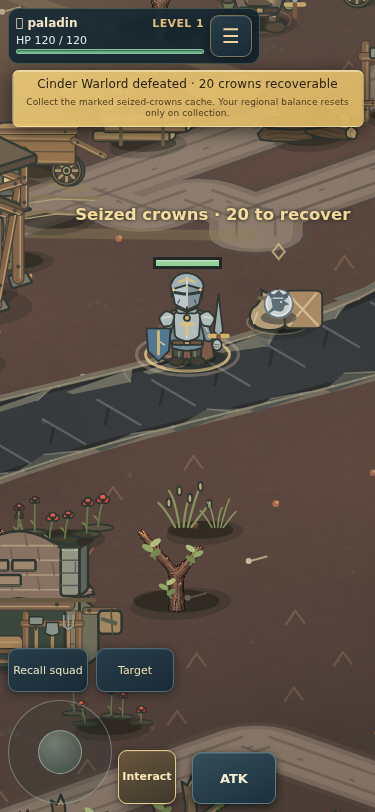
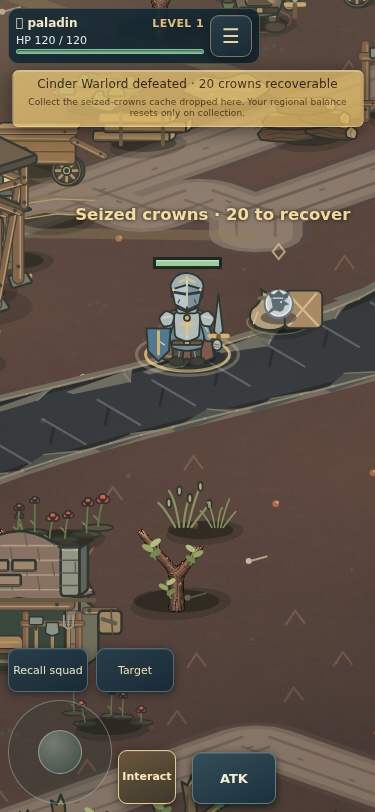
Record verified dev.128 Treasury publication and restore normal workflow [skip ci]

Changed region(s): [[0.088, 0.0616, 0.9387, 0.1539], [0.6453, 0.0616, 0.6747, 0.0924]]

diff --git a/AGENTS.md b/AGENTS.md
@@ -1,4 +1,4 @@
-**Prepared dev.128 — regional Treasury recovery:** Actual death-penalty crowns accumulate by region, captain victory announces the recoverable amount, and a separate marked cache pays/reset the balance once. Frontier uses its existing roaming captain and a marked cache dropped at the actual kill location (owner clarification); four other regions use their Treasuries. Safe scheduled native captain/guard returns support later recovery attempts. Old saves remain compatible; past unregionalized losses cannot be reconstructed. Focused five-region Normal/Nightmare lifecycle/accounting/save tests, existing affected checks and actual phone touch/announcement/reload pass. Package-only publication pending. Scope: `docs/TREASURY_DEATH_RECOVERY_DEV128.md`. Owner clarified defender-favoring arena goals; companion arrival stacking is acceptable, and Crypt/Archive/Mine fort bonuses remain undecided/unapproved. No spatial/fort/lighting changes are included.
+**Published dev.128 — regional Treasury recovery:** PR #364 / `55ad078ee1a7e0b092ff52729b435f4d2ea98d0f`; package-only run 39563416611 succeeded. All twelve checked runtime files and the exact live build match. Actual live phone captain amount announcement, separate touch collection/reset, Frontier cache at the roaming captain's actual kill point and saved/reloaded recovery pass without JavaScript errors. Native captain/guard returns support later attempts; penalty rates and supply quests unchanged. Old unregionalized losses cannot be reconstructed. Normal workflow restored and temporary publisher removed. Scope: `docs/TREASURY_DEATH_RECOVERY_DEV128.md`; receipt: `docs/evidence/TREASURY_RECOVERY_DEV128_PUBLICATION_20261021.json`. Owner defender-favoring arena steering is recorded: arrival stacking acceptable, Crypt/Archive/Mine fort bonuses undecided/unapproved. Spatial and lighting work remains deferred; no automatic further work.
 
 **Published dev.127 — roster restriction explanations:** PR #363 / `e1781b946bf6544977f79082b5b2080a5d03bf9a`; package-only run 39558619461 succeeded. Nine checked live files match; actual live phone Rest → Recruit pet flow and visible combat denial pass without JavaScript errors. Shared menu/action-time reasons explain existing restrictions, including town employment versus active-party limits. No caps/rules/save-schema changes. Normal workflow restored and temporary publisher removed. Scope: `docs/BARRACKS_ROSTER_FEEDBACK_DEV127.md`; receipt: `docs/evidence/BARRACKS_ROSTER_DEV127_PUBLICATION_20261021.json`. Owner-directed boss/captain encounter audit is complete and review-only: `docs/ENCOUNTER_SPACE_AUDIT_DEV127.md`. Confirmed Crag starting-body clearance issue, stacked main-dungeon arrivals, immediate guard acquisition at four entrances, and missing Crypt/Archive/Mine fort coverage. Sampled bosses/captains cast and summons deploy; no generic ordinary-hit interruption is reproduced. Proposed repairs are not implemented. Sunrise/sunset work remains deferred.
 

diff --git a/docs/DEVELOPMENT_STATE.md b/docs/DEVELOPMENT_STATE.md
@@ -1,4 +1,4 @@
-**Prepared dev.128 — regional Treasury recovery:** Actual death-penalty crowns accumulate by region, captain victory announces the recoverable amount, and a separate marked cache pays/reset the balance once. Frontier uses its existing roaming captain and a marked cache dropped at the actual kill location (owner clarification); four other regions use their Treasuries. Safe scheduled native captain/guard returns support later recovery attempts. Old saves remain compatible; past unregionalized losses cannot be reconstructed. Focused five-region Normal/Nightmare lifecycle/accounting/save tests, existing affected checks and actual phone touch/announcement/reload pass. Package-only publication pending. Scope: `docs/TREASURY_DEATH_RECOVERY_DEV128.md`. Owner clarified defender-favoring arena goals; companion arrival stacking is acceptable, and Crypt/Archive/Mine fort bonuses remain undecided/unapproved. No spatial/fort/lighting changes are included.
+**Published dev.128 — regional Treasury recovery:** PR #364 / `55ad078ee1a7e0b092ff52729b435f4d2ea98d0f`; package-only run 39563416611 succeeded. All twelve checked runtime files and the exact live build match. Actual live phone captain amount announcement, separate touch collection/reset, Frontier cache at the roaming captain's actual kill point and saved/reloaded recovery pass without JavaScript errors. Native captain/guard returns support later attempts; penalty rates and supply quests unchanged. Old unregionalized losses cannot be reconstructed. Normal workflow restored and temporary publisher removed. Scope: `docs/TREASURY_DEATH_RECOVERY_DEV128.md`; receipt: `docs/evidence/TREASURY_RECOVERY_DEV128_PUBLICATION_20261021.json`. Owner defender-favoring arena steering is recorded: arrival stacking acceptable, Crypt/Archive/Mine fort bonuses undecided/unapproved. Spatial and lighting work remains deferred; no automatic further work.
 
 **Published dev.127 — roster restriction explanations:** PR #363 / `e1781b946bf6544977f79082b5b2080a5d03bf9a`; package-only run 39558619461 succeeded. Nine checked live files match; actual live phone Rest → Recruit pet flow and visible combat denial pass without JavaScript errors. Shared menu/action-time reasons explain existing restrictions, including town employment versus active-party limits. No caps/rules/save-schema changes. Normal workflow restored and temporary publisher removed. Scope: `docs/BARRACKS_ROSTER_FEEDBACK_DEV127.md`; receipt: `docs/evidence/BARRACKS_ROSTER_DEV127_PUBLICATION_20261021.json`. Owner-directed boss/captain encounter audit is complete and review-only: `docs/ENCOUNTER_SPACE_AUDIT_DEV127.md`. Confirmed Crag starting-body clearance issue, stacked main-dungeon arrivals, immediate guard acquisition at four entrances, and missing Crypt/Archive/Mine fort coverage. Sampled bosses/captains cast and summons deploy; no generic ordinary-hit interruption is reproduced. Proposed repairs are not implemented. Sunrise/sunset work remains deferred.
 

diff --git a/docs/TREASURY_DEATH_RECOVERY_DEV128.md b/docs/TREASURY_DEATH_RECOVERY_DEV128.md
@@ -21,8 +21,12 @@ Frontier has no Treasury interior. The owner selected the existing **Cinder Warl
 - `tests/treasury-recovery.test.cjs`: all five regions in Normal/Nightmare, repeated actual deaths, exact balance/debit, captain defeat versus collection, refused living-captain collection, save/exit/reentry, duplicate/refused collection, safe scheduled respawn, another loss cycle, native guard return, separate banks, interior attribution, fractional/zero wallet, Succession, old/malformed saves and forged wrong-region cache.
 - Existing regional death/Barracks, economy, Treasury fortification and browser/CommonJS domain graph checks pass. No broad CI or whole-game suite.
 - Actual phone Chromium at 375×812: live app captain damage/defeat, visible `60 crowns recoverable` announcement, no automatic payout, marked cache, real touch interaction paying 60 once, zero balance/hidden cache and saved/reloaded wallet. No JavaScript errors. Script, Treasury/Frontier captures and receipt: `tools/visual-review/treasury-recovery-dev128/`.
-- Build/generated/assets and changed-source formatting checked for this candidate; publication pending.
+- Build/generated/assets and changed-source formatting checked for this candidate; publication verified below.
 
 ## Arena audit steering retained
 
 The owner clarified that arena work must support prepared defenders using their intended skills, summons and defensive positions; it is not a plan to make clearing dungeons easier. Corner entrances provide separation before confrontation. Initial companion stacking is acceptable; spacing is optional where actual combat movement/performance supports it. **Crypt, Archive and Mine fort bonuses are undecided and not authorized.** Their absence in the audit is not a defect to fix automatically. Death-loss recovery is the current priority. Crag/arena/entrance changes and sunrise/sunset flashes are not part of this release.
+
+## Publication
+
+Published in PR #364 as `55ad078ee1a7e0b092ff52729b435f4d2ea98d0f`; package-only run 39563416611 succeeded. Twelve exact checked public runtime files and `build.txt` match. The actual published phone URL passes the Treasury amount announcement/touch payout/reset/save flow and Frontier kill-point drop, reload and touch collection, without JavaScript errors. Normal workflow restored and temporary publisher removed. Receipt: `evidence/TREASURY_RECOVERY_DEV128_PUBLICATION_20261021.json`. No broad CI or further automatic gameplay work follows.

diff --git a/docs/DOCUMENTATION_INDEX.md b/docs/DOCUMENTATION_INDEX.md
@@ -1,4 +1,4 @@
-Prepared dev.128: [regional Treasury death-loss recovery and owner arena steering](TREASURY_DEATH_RECOVERY_DEV128.md). Focused checks and actual phone flow pass; publication pending.
+Published dev.128: [regional Treasury recovery and defender-favoring arena steering](TREASURY_DEATH_RECOVERY_DEV128.md), PR #364. Exact live build/12 runtime files match; phone captain announcement/touch collection and saved Frontier drop pass. Normal workflow restored.
 
 Published dev.127: [roster restriction explanations](BARRACKS_ROSTER_FEEDBACK_DEV127.md), PR #363. Nine live files match; actual phone rest/recruit and visible blocker checks pass. Normal workflow restored. [Boss/captain encounter-space audit](ENCOUNTER_SPACE_AUDIT_DEV127.md) is complete, review-only; proposed spatial/arrival/fort repairs are not implemented.
 
